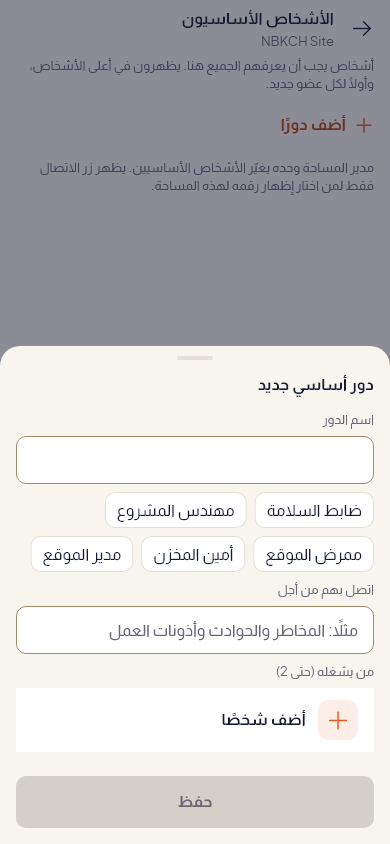
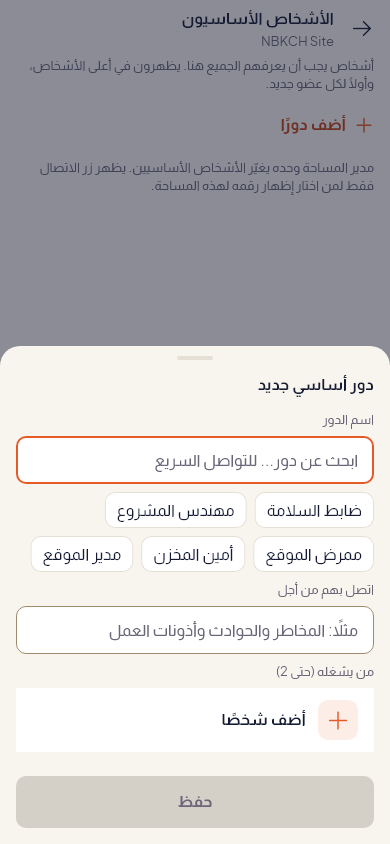
Review 122b: KP4 role name is a search with free text (founder's hint, autofocus, examples narrow in either language); foldForSearch to core/text; report, shots

diff --git a/test/features/spaces/key_role_names_r122b_test.dart b/test/features/spaces/key_role_names_r122b_test.dart
@@ -1,0 +1,180 @@
+// Review 122b, in English and Arabic: a key role's name is free. KP4's
+// name field is a search ("Search for a role... for quick contact") that
+// narrows the market pack's examples as you type, in either language and
+// ignoring Arabic letter forms, and keeps whatever is typed.
+import 'package:buildvibes/data/models/key_people.dart';
+import 'package:buildvibes/data/models/space.dart';
+import 'package:buildvibes/shared/widgets/bv_chip.dart';
+import 'package:flutter/material.dart';
+import 'package:flutter_test/flutter_test.dart';
+import 'package:go_router/go_router.dart';
+
+import '../../helpers/key_people_fakes.dart';
+import '../../helpers/pump_app.dart';
+import '../../helpers/space_fakes.dart';
+
+Finder _key(String k) => find.byKey(Key(k));
+
+const _space = 'space-1';
+
+FakeSpaceRepository _spaces() {
+  final spaces = FakeSpaceRepository(now: testNow);
+  spaces.details[_space] = const SpaceDetail(
+    id: _space,
+    name: 'NBKCH Site',
+    myPass: SpacePass.lead,
+    iAmAdmin: true,
+    myRights: MemberRights(invite: true, createItems: true),
+    marketId: 'kw',
+  );
+  spaces.spaces.add(
+    const SpaceSummary(
+      id: _space,
+      name: 'NBKCH Site',
+      pass: SpacePass.lead,
+      isAdmin: true,
+    ),
+  );
+  return spaces;
+}
+
+/// KP4 for a new role, from KP3.
+Future<FakeKeyPeopleRepository> _newRole(
+  WidgetTester tester,
+  String lang,
+) async {
+  final keys = FakeKeyPeopleRepository()..spaces[_space] = const KeyPeople();
+  await pumpApp(tester, language: lang, spaces: _spaces(), keyPeople: keys);
+  GoRouter.of(
+    tester.element(find.byType(Navigator).first),
+  ).push('/spaces/$_space/key-people');
+  await tester.pumpAndSettle();
+  await tester.tap(_key('key-people-add'));
+  await tester.pumpAndSettle();
+  return keys;
+}
+
+/// The suggestion chips on screen, by their label.
+List<String> _chips(WidgetTester tester) => [
+  for (final c in tester.widgetList<BvChip>(find.byType(BvChip))) c.label,
+];
+
+Future<void> _type(WidgetTester tester, String text) async {
+  await tester.enterText(_key('key-role-name'), text);
+  await tester.pumpAndSettle();
+}
+
+Future<void> _save(WidgetTester tester) async {
+  await tester.ensureVisible(_key('key-role-save'));
+  await tester.pumpAndSettle();
+  await tester.tap(_key('key-role-save'));
+  await tester.pumpAndSettle();
+}
+
+void main() {
+  for (final lang in ['en', 'ar']) {
+    String t(String en, String ar) => lang == 'ar' ? ar : en;
+    final safety = t('Safety officer', 'ضابط السلامة');
+
+    group('122b role names are free [$lang]', () {
+      testWidgets('the empty name field shows the search hint', (tester) async {
+        await _newRole(tester, lang);
+        expect(
+          find.descendant(
+            of: _key('key-role-name'),
+            matching: find.text(
+              t(
+                'Search for a role... for quick contact',
+                'ابحث عن دور... للتواصل السريع',
+              ),
+            ),
+          ),
+          findsOneWidget,
+        );
+        // Every example still shows while nothing is typed.
+        expect(_chips(tester), hasLength(5));
+      });
+
+      testWidgets('a new role opens with the keyboard on the name', (
+        tester,
+      ) async {
+        await _newRole(tester, lang);
+        final field = tester.widget<EditableText>(
+          find.descendant(
+            of: _key('key-role-name'),
+            matching: find.byType(EditableText),
+          ),
+        );
+        expect(field.focusNode.hasFocus, isTrue);
+      });
+
+      testWidgets('«سلا» narrows the examples to the Safety officer', (
+        tester,
+      ) async {
+        await _newRole(tester, lang);
+        await _type(tester, 'سلا');
+        expect(_chips(tester), [safety]);
+      });
+
+      testWidgets('matches in the other language too', (tester) async {
+        await _newRole(tester, lang);
+        await _type(tester, 'SAFE');
+        expect(_chips(tester), [safety]);
+      });
+
+      testWidgets('ignores the forms of alef: «امين» finds «أمين المخزن»', (
+        tester,
+      ) async {
+        await _newRole(tester, lang);
+        await _type(tester, 'امين');
+        expect(_chips(tester), [t('Storekeeper', 'أمين المخزن')]);
+      });
+
+      testWidgets('a role that isn\'t an example: no chips, saved as typed, '
+          'shown as typed', (tester) async {
+        final keys = await _newRole(tester, lang);
+        await _type(tester, 'مشغّل رافعة');
+        expect(_chips(tester), isEmpty);
+        keys.spaces[_space] = const KeyPeople(
+          roles: [KeyRole(id: 'r-crane', name: 'مشغّل رافعة')],
+        );
+        await _save(tester);
+        expect(keys.saved.single.name, 'مشغّل رافعة');
+        expect(find.textContaining('مشغّل رافعة'), findsOneWidget);
+      });
+
+      testWidgets('an English role that isn\'t an example saves as typed', (
+        tester,
+      ) async {
+        final keys = await _newRole(tester, lang);
+        await _type(tester, 'Crane operator');
+        expect(_chips(tester), isEmpty);
+        await _save(tester);
+        expect(keys.saved.single.name, 'Crane operator');
+      });
+
+      testWidgets('a chip fills the field; an edit after it is what saves', (
+        tester,
+      ) async {
+        final keys = await _newRole(tester, lang);
+        await tester.tap(find.widgetWithText(BvChip, safety));
+        await tester.pumpAndSettle();
+        expect(
+          tester.widget<BvChip>(find.widgetWithText(BvChip, safety)).selected,
+          isTrue,
+        );
+        final edited = '$safety ${t('(night)', '(ليلي)')}';
+        await _type(tester, edited);
+        // Something else typed: the chip is off.
+        expect(
+          tester
+              .widgetList<BvChip>(find.byType(BvChip))
+              .where((c) => c.selected),
+          isEmpty,
+        );
+        await _save(tester);
+        expect(keys.saved.single.name, edited);
+      });
+    });
+  }
+}

diff --git a/lib/features/spaces/key_people_screen.dart b/lib/features/spaces/key_people_screen.dart
@@ -8,6 +8,7 @@ import '../../core/design/bv_specs.dart';
 import '../../core/design/bv_tokens.dart';
 import '../../core/design/people_library_specs.dart';
 import '../../core/l10n/bidi.dart';
+import '../../core/text/fold_for_search.dart';
 import '../../data/models/key_people.dart';
 import '../../data/models/market.dart';
 import '../../data/models/space.dart';
@@ -419,11 +420,16 @@ class _KeyRoleFormState extends ConsumerState<_KeyRoleForm> {
     final type = BvType.of(context);
     final lang = Localizations.localeOf(context).languageCode;
     final label = type.metadata.copyWith(color: BvColors.textSecondary);
+    final name = _name.text.trim();
+    // Review 122b: the name is free; the market pack's examples narrow to
+    // what is typed, in either language.
+    final typed = foldForSearch(name);
     final suggestions = [
       for (final s in _market()?.keyRoleSuggestions ?? const <LocalizedText>[])
-        lang == 'ar' && s.ar.isNotEmpty ? s.ar : s.en,
+        if (foldForSearch(s.en).contains(typed) ||
+            foldForSearch(s.ar).contains(typed))
+          lang == 'ar' && s.ar.isNotEmpty ? s.ar : s.en,
     ];
-    final name = _name.text.trim();
 
     return Column(
       key: const Key('key-role-sheet'),
@@ -435,6 +441,8 @@ class _KeyRoleFormState extends ConsumerState<_KeyRoleForm> {
         BvTextField(
           key: const Key('key-role-name'),
           controller: _name,
+          placeholder: l10n.keyRoleNameHint,
+          autofocus: widget.role == null,
           maxLength: 40,
           textInputAction: TextInputAction.next,
           textCapitalization: TextCapitalization.sentences,

diff --git a/lib/features/notebook/notebook_page_parts.dart b/lib/features/notebook/notebook_page_parts.dart
@@ -7,6 +7,7 @@ import '../../core/design/bv_icons.dart';
 import '../../core/design/bv_tokens.dart';
 import '../../core/design/planning_specs.dart';
 import '../../core/l10n/bidi.dart';
+import '../../core/text/fold_for_search.dart';
 import '../../data/models/daybook.dart' show dayOf;
 import '../../data/models/note.dart';
 import '../../data/models/notebook_page.dart';
@@ -337,19 +338,6 @@ String entryFirstLine(Note note) {
   final title = note.title.trim();
   if (title.isNotEmpty) return title;
   return note.body.trim().split('\n').first.trim();
-}
-
-/// Words as the picker compares them: lower case, Arabic letter forms and
-/// digits folded as the server's search_fold does.
-String foldForSearch(String text) {
-  const from = 'أإآٱىیةؤئک٠١٢٣٤٥٦٧٨٩۰۱۲۳۴۵۶۷۸۹';
-  const to = 'ااااييهءءك01234567890123456789';
-  final out = StringBuffer();
-  for (final c in text.trim().toLowerCase().characters) {
-    final i = from.indexOf(c);
-    out.write(i < 0 || c.length != 1 ? c : to[i]);
-  }
-  return out.toString().replaceAll(RegExp(r'\s+'), ' ');
 }
 
 /// What a page picker chose (A2, A4).

diff --git a/lib/core/text/fold_for_search.dart b/lib/core/text/fold_for_search.dart
@@ -1,0 +1,15 @@
+import 'package:flutter/widgets.dart' show StringCharacters;
+
+/// Words as a search compares them: lower case, Arabic letter forms and
+/// digits folded as the server's search_fold does. The notebook's page
+/// picker; review 122b, KP4's role examples.
+String foldForSearch(String text) {
+  const from = 'أإآٱىیةؤئک٠١٢٣٤٥٦٧٨٩۰۱۲۳۴۵۶۷۸۹';
+  const to = 'ااااييهءءك01234567890123456789';
+  final out = StringBuffer();
+  for (final c in text.trim().toLowerCase().characters) {
+    final i = from.indexOf(c);
+    out.write(i < 0 || c.length != 1 ? c : to[i]);
+  }
+  return out.toString().replaceAll(RegExp(r'\s+'), ' ');
+}

diff --git a/lib/l10n/gen/app_localizations.dart b/lib/l10n/gen/app_localizations.dart
@@ -12608,6 +12608,12 @@ abstract class AppLocalizations {
   /// **'Role name'**
   String get keyRoleName;
 
+  /// Review 122b KP4: the role name field while empty, in the founder's words; any name can be typed, the examples narrow as you type.
+  ///
+  /// In en, this message translates to:
+  /// **'Search for a role... for quick contact'**
+  String get keyRoleNameHint;
+
   /// Review 121 KP4: what to call them for.
   ///
   /// In en, this message translates to:

diff --git a/lib/l10n/gen/app_localizations_ar.dart b/lib/l10n/gen/app_localizations_ar.dart
@@ -7683,6 +7683,9 @@ class AppLocalizationsAr extends AppLocalizations {
   String get keyRoleName => 'اسم الدور';
 
   @override
+  String get keyRoleNameHint => 'ابحث عن دور... للتواصل السريع';
+
+  @override
   String get keyRoleCallFor => 'اتصل بهم من أجل';
 
   @override

diff --git a/lib/l10n/gen/app_localizations_en.dart b/lib/l10n/gen/app_localizations_en.dart
@@ -7620,6 +7620,9 @@ class AppLocalizationsEn extends AppLocalizations {
   String get keyRoleName => 'Role name';
 
   @override
+  String get keyRoleNameHint => 'Search for a role... for quick contact';
+
+  @override
   String get keyRoleCallFor => 'Call them for';
 
   @override

diff --git a/docs/reviews/2026-11-06-122b-report.md b/docs/reviews/2026-11-06-122b-report.md
@@ -1,0 +1,65 @@
+# Review 122b: role names are free, and KP4 says so: report
+
+**For the lead.** Branch `claude/r122b`, off `slice2-app` 07bac22c.
+- Not merged.
+- Nothing live, no build. No server change.
+
+## What was done
+Test first: `test/features/spaces/key_role_names_r122b_test.dart` failed 14 of 16 before the code. The two that passed were "a chip, then an edit": that already worked.
+
+**KP4's name field:**
+- **The hint:** the founder's words, "Search for a role... for quick contact" / «ابحث عن دور... للتواصل السريع».
+- **Autofocus:** the field opens with the keyboard up for a new role. A role that already exists opens without focus.
+- **A search with free text:**
+  - The market pack's examples narrow to the ones containing what is typed.
+  - The match works in either language, so "safe" finds «ضابط السلامة» in Arabic.
+  - It ignores Arabic letter forms (أ/إ/آ/ٱ → ا, ة → ه, ى → ي) and case.
+  - Whatever is typed is kept and saved; with no match there are no chips.
+- **Chips and typing together:**
+  - A chip fills the field and can be edited.
+  - Typing something else turns the chip off: it narrows away, or stays without the tick.
+  - Chips stay after the field, with no caption.
+- **Call them for:** unchanged; it is free text with the 122 hint.
+
+**Reuse:** the folding is the notebook's `foldForSearch`, which matches the server's `search_fold`. It moved from `notebook_page_parts.dart` to `lib/core/text/fold_for_search.dart`, and the notebook's page picker now imports it from there. Nothing else changed in it.
+
+## Tests (EN and AR, 16)
+- the hint shows on the empty field, with all 5 examples;
+- a new role opens focused on the name;
+- «سلا» narrows to the Safety officer;
+- "SAFE" matches in the other language;
+- «امين» finds «أمين المخزن»;
+- «مشغّل رافعة» shows no chips, saves as typed, and shows as typed in KP3;
+- "Crane operator" saves as typed;
+- a chip, then an edit: the chip is off, and the edited text saves.
+
+**Goldens updated:** `r121b/kp4_empty` (the hint, the cursor) and `r121/kp4` (only the chosen example shows once its name is in the field).
+
+## Checks
+| Check | Result |
+|---|---|
+| `flutter analyze` | No issues |
+| `flutter test` | 4,057 pass |
+| `test_screens` | 772 pass |
+| `supabase test db` | 75 files, 4,702 checks, PASS (no server change) |
+
+**Cleanup (deslop):**
+- The diff is small: one string, the filter, the hint and autofocus, and the moved helper. Nothing needed removing.
+- The one reuse: the existing `foldForSearch`, instead of a second copy of the folding.
+
+## Emulator shots (`shots-122b/`, Pixel_8_B, debug build, local server, Islam as Space admin)
+- **`kp4_empty_en/ar`:** the hint, with the keyboard up (autofocus).
+- **`kp4_typed_ar`:** «مشغّل رافعة», no chips, Save on. Arabic was pasted from the PC's clipboard, since adb can't type Arabic.
+  - `kp3_typed_saved_ar`: saved as typed.
+- **`kp4_typed_en`:** "Crane operator", no chips.
+  - `kp3_typed_saved_en`: saved as typed.
+  - On the local server, `space_key_roles.name` holds «مشغّل رافعة» and "Crane operator" exactly.
+- **`kp4_narrowed_ar`:** «سلا» → «ضابط السلامة».
+- **`kp4_narrowed_en`:** "safe" → Safety officer.
+- **Emulator setting:** the handwriting toolbar (`stylus_handwriting_enabled`) was turned off on the emulator, because it covered the field.
+
+## Seen, not changed
+With the keyboard up on the empty sheet, the Save button sits partly under the keyboard until the sheet is scrolled (`kp4_empty_en`). That is how the sheet already behaved; autofocus only makes it show at once. A fix would belong to `showBvSheet` (keep the action above the keyboard) across every sheet. Want it as its own item?
+
+## After your check, each with the founder's yes
+Merge into `slice2-app` → build → install. There is no `db push`.

diff --git a/docs/handoff.md b/docs/handoff.md
@@ -2,6 +2,24 @@
 
 Where the work stopped, for whichever place picks it up next: the founder's PC, a cloud session, or the lead's chat in the Claude project. Each session rewrites this file before it stops. The full history stays in `progress.md`.
 
+## PC update: 6 Nov 2026, evening — review 122b (free role names) on `claude/r122b`; waiting for the lead
+
+**Standing rule (review 74):** nothing but the BuildVibes build goes on the founder's phone without his yes in chat.
+
+- **Branch:** `claude/r122b` from `slice2-app` (07bac22c). Not merged, nothing live, no build. No server change.
+- **Report:** `docs/reviews/2026-11-06-122b-report.md`, with one question for the lead: Save sits under the keyboard on a tall sheet.
+- **Checks:**
+  - `flutter analyze` clean;
+  - `flutter test` 4,057;
+  - `test_screens` 772;
+  - `supabase test db` 4,702.
+- **After the lead's check, with the founder's yes:** merge → build → install. There is no `db push`.
+- **Local stack:** the key people seed, plus two typed roles; the admin has the test phone 96550000002. Run `supabase db reset` before `supabase test db`, or the test phones clash.
+- **Emulator:** Pixel_8_B has this branch's debug build, in English, with the handwriting toolbar off.
+- **Who has which branch:**
+  - PC has `claude/r122b`.
+  - `slice2-app` is at 07bac22c.
+
 ## PC update: 6 Nov 2026, later — review 122 merged; build 1097 on the founder's phone
 
 **Standing rule (review 74):** nothing but the BuildVibes build goes on the founder's phone without his yes in chat.

diff --git a/docs/progress.md b/docs/progress.md
@@ -946,6 +946,11 @@ What is set on the live project today. The source of truth is `supabase/config.t
   - No server change. `OfferCard` is shared by KP0 and Make Teams from companies.
   - Checks: 4,039 Flutter tests, 772 screen tests, 75 files with 4,702 SQL checks.
   - Report: `docs/reviews/2026-11-05-122-report.md`; shots in `docs/reviews/shots-122/`.
+- **6 Nov (review 122b, `claude/r122b`, waiting for the lead):** KP4's role name is a search with free text.
+  - The founder's hint; autofocus; the examples narrow in either language, ignoring Arabic letter forms.
+  - Anything typed is saved. `foldForSearch` moved to `lib/core/text/`.
+  - Checks: 4,057 Flutter tests, 772 screen tests, 4,702 SQL checks.
+  - Report: `docs/reviews/2026-11-06-122b-report.md`.
 
 ## Before the pilot (week 11)
 - Delete the test accounts push-test-a, push-test-b, push-test-c and "Delete Test" (the S13 test account on the founder's Gmail alias), and their test post, with the admin API.
